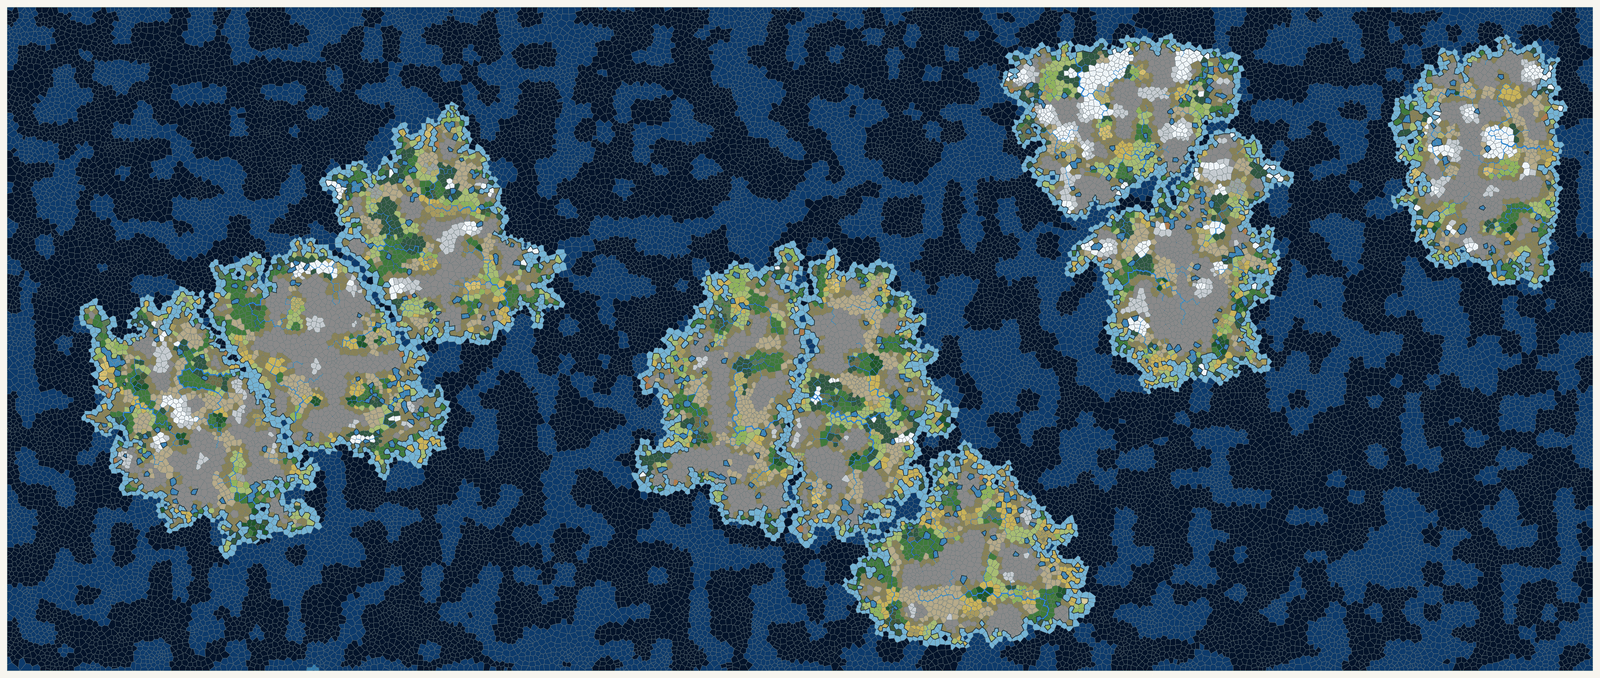
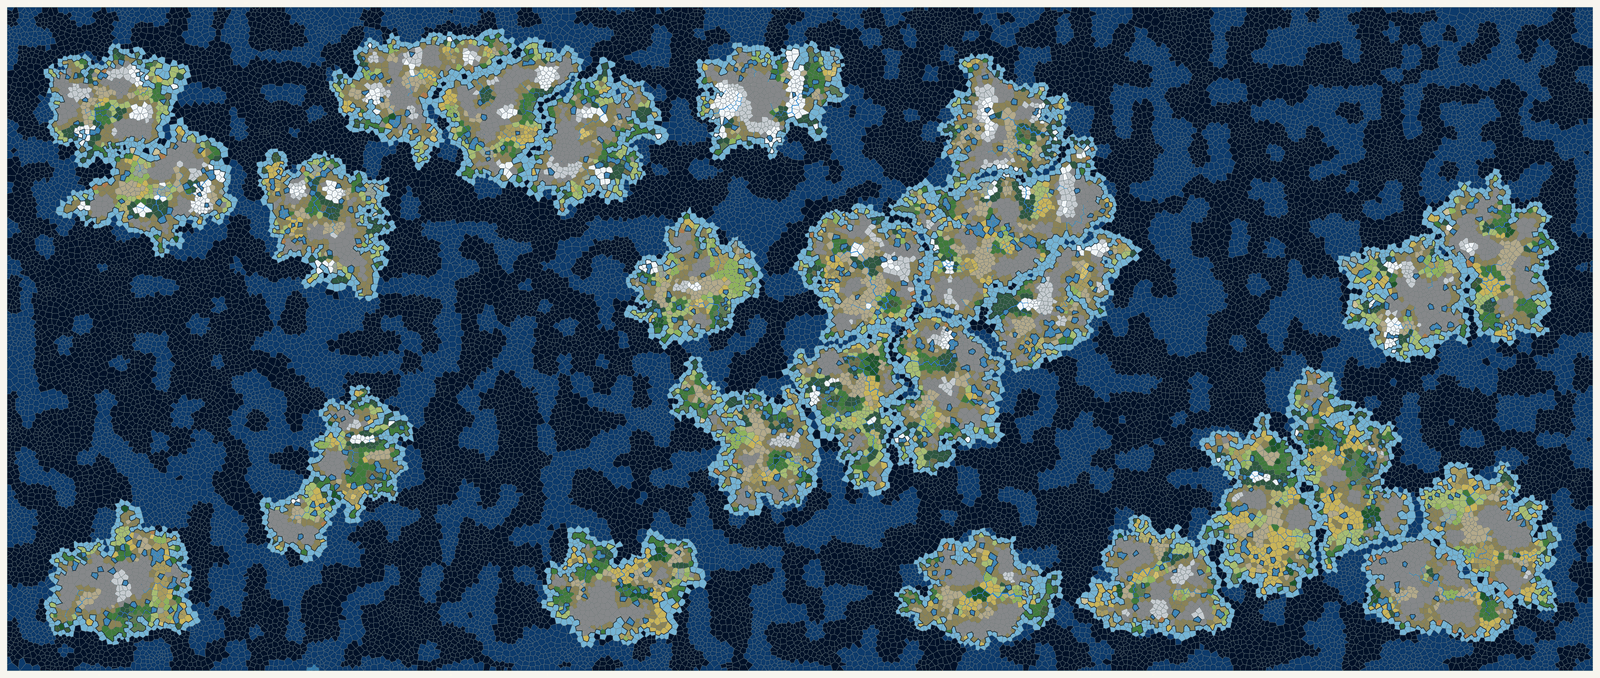
Make 27 islands with nine attractors the TNYC goal map
The README header, recipe, timing table, and the strait, sea zone, and
river counts now describe that map.

diff --git a/version.go b/version.go
@@ -10,7 +10,7 @@ var (
 	version = semver.Version{
 		Major:      0,
 		Minor:      7,
-		Patch:      20,
+		Patch:      21,
 		PreRelease: "alpha",
 		Build:      semver.Commit(),
 	}

diff --git a/README.md b/README.md
@@ -1,11 +1,11 @@
 # wgvc
 
-![Nine-landmass TNYC map: 10,000 land provinces at 78% ocean](docs/tnyc.png)
+![TNYC map: 27 islands on 10,000 land provinces at 78% ocean](docs/tnyc.png)
 
 `wgvc` generates deterministic, province-first game worlds on one relaxed
 Voronoi mesh, with concurrently grown and merging islands, shared polygon
-topology, and spatially correlated terrain. The map above is the nine-landmass
-TNYC recipe from [TNYC maps](#tnyc-maps), downscaled from 5322×2255.
+topology, and spatially correlated terrain. The map above is the TNYC recipe
+from [TNYC maps](#tnyc-maps), downscaled from 5322×2255.
 
 The included `generate` command exposes the complete growth configuration
 and writes canonical JSON world data as well as terrain-colored SVG and PNG
@@ -150,37 +150,42 @@ go run ./cmd/generate -seed 0x0123456789abcdef \
 
 ### TNYC maps
 
-TNYC uses about 10,000 land provinces on a cinematic map. The rival ramp keeps
-islands apart, so the initial island count is normally the final landmass
-count: at 78% water, 9 initial islands stay 9 separate landmasses of similar
-size. A continent is best grown the other way, by disabling the ramp so that 25
-islands at 45% water merge into one landmass with inland seas and bays; a single
-initial island instead grows into one featureless block against the map edge.
+TNYC uses about 10,000 land provinces on a cinematic map. The goal map is 27
+initial islands at 78% water with all nine attractors, which fills every region
+of the map with an island of 330 to 410 provinces and leaves neighbors separated
+by straits of one to three water provinces. The rival ramp keeps the islands
+apart, so the initial island count is normally the final landmass count; this
+seed merges one pair in the crowded center for 26 landmasses. A continent is
+grown the other way, by disabling the ramp so that 25 islands at 45% water merge
+into one landmass with inland seas and bays; a single initial island instead
+grows into one featureless block against the map edge.
 
 ```sh
+# Goal map: 27→26 islands, 45,455 provinces, 5322×2255
+go run ./cmd/generate -seed 0x0123456789abcdef \
+  -islands 27 -provinces 10000 -ocean 0.78 \
+  -aspect cinematic -attractors 9 -format png -output tnyc
+
 # One continent: 25→1 islands, 18,182 provinces, 3384×1444
 go run ./cmd/generate -seed 0x0123456789abcdef \
   -islands 25 -provinces 10000 -ocean 0.45 -rival-ramp 0 \
   -aspect cinematic -attractors 5 -format png -output tnyc-continent
-
-# Nine landmasses: 9→9 islands, 45,455 provinces, 5322×2255
-go run ./cmd/generate -seed 0x0123456789abcdef \
-  -islands 9 -provinces 10000 -ocean 0.78 \
-  -aspect cinematic -attractors 5 -format png -output tnyc
 ```
 
 | Map | Landmasses (provinces each) | Wall time | Max resident memory |
 |---|---|---:|---:|
+| `tnyc` | 26 (692, then 25 between 326 and 408) | 4.6 s | 244 MiB |
 | `tnyc-continent` | 1 (10,000) | 2.4 s | 99 MiB |
-| `tnyc` | 9 (1172, 1134, 1131, 1122, 1112, 1098, 1088, 1086, 1057) | 4.7 s | 239 MiB |
 
 Timings are for a built binary writing PNG only, measured with
-`/usr/bin/time -l` on an Apple M4 at v0.7.19-alpha. Crowded maps can still
-merge a few islands at the default temperature: 12 initial islands at 65%
-water ended with 10 or 11 landmasses across five seeds. Lowering
-`-temperature` to 0.05 makes the ramp decisive (12 of 12 on every seed), a
-wider ramp such as `-rival-ramp=-1,-1,-1,-0.5,0` widens the channels, and
-`-rival-ramp 0` restores free merging so that only `-ocean` separates islands.
+`/usr/bin/time -l` on an Apple M4 at v0.7.21-alpha. The remaining merges happen
+where islands are crowded against each other or the map edge: 15 initial
+islands with nine attractors ended with 12 landmasses, two of them fused along
+the map edge, and 12 islands with five attractors at 65% water ended with 10 or
+11 across five seeds. Lowering `-temperature` to 0.05 makes the ramp decisive
+(12 of 12 on every seed), a wider ramp such as `-rival-ramp=-1,-1,-1,-0.5,0`
+widens the channels, and `-rival-ramp 0` restores free merging so that only
+`-ocean` separates islands.
 
 Use `-format png` for `world.png`, `-format json` for `world.json`, or
 `-format both` to write `world.svg` and `world.png`. Comma-separated values such
@@ -390,8 +395,8 @@ is set by the discharge on its last edge: `stream` from 4, `river` from 16, and
 `major-river` from 64; rivers and major rivers are navigable. The thresholds
 are absolute because a province is a fixed real size, so a default
 1,500-province world has a few dozen rivers and no major river, while a
-10,000-province TNYC map has a few dozen major rivers and a few hundred rivers
-in all. Rivers are ordered by descending discharge. The
+10,000-province TNYC map has a few hundred rivers in all, of which a handful are
+major rivers on the 27-island goal map and a few dozen on a nine-landmass map. Rivers are ordered by descending discharge. The
 pass consumes no randomness, so adding rivers changed no existing field.
 
 ## Seas, straits, and necks
@@ -409,7 +414,7 @@ ocean component, and each ocean province joins its nearest seed with ties to
 the lower seed, which keeps every zone connected. A zone larger than 400 is
 partitioned again within itself, so zones range from a few provinces in an
 isolated pocket to 400. A default world has about 18 zones; the 10,000-province
-TNYC maps have about 50 (one continent) or about 200 (nine landmasses).
+TNYC maps have about 50 (one continent) or about 210 (the 27-island goal map).
 
 Straits are narrow water crossings between two islands: from each island's
 coastal water a bounded BFS counts the water provinces to that island, and a
@@ -417,7 +422,8 @@ water province is narrow between islands A and B when a path of at most 3
 water provinces joins them through it. Narrow provinces of one island pair that
 touch by water form one strait, with its shortest width and the land provinces
 on each shore. The rival ramp leaves channels of one to three water provinces
-between neighboring islands, so the nine-landmass TNYC map has about 8 straits.
+between neighboring islands, so the 27-island TNYC goal map has about 21
+straits.
 
 Necks are narrow isthmuses, found as small vertex cuts of each island's land
 graph: articulation points, and paths of two or three adjacent land provinces
